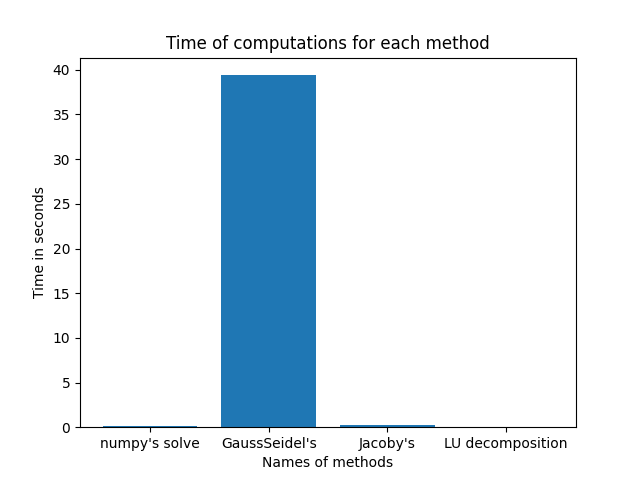
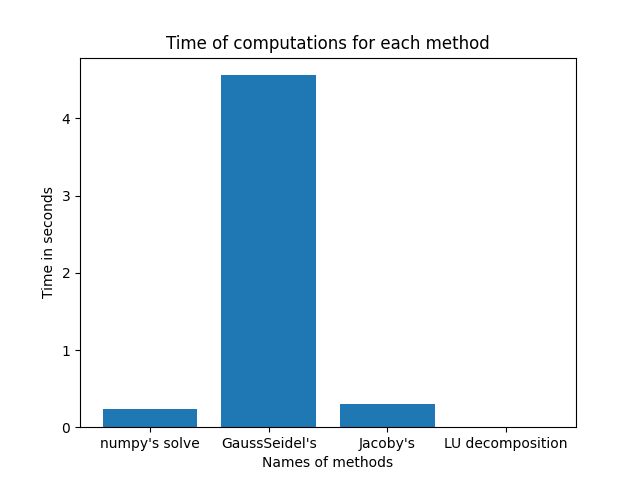
fixed Gauss-Seidel method

diff --git a/gaussseidel.py b/gaussseidel.py
@@ -12,8 +12,8 @@ class GaussSeidel(IterativeMethod):
         self.expression2 = np.linalg.solve(self.expression1, self.b_vec)
 
     def compute_iteration(self):
-        self.result = -np.linalg.solve(self.expression1,
-                            (self.U @ self.result)) + self.expression2
+        for i in range(self.matrix.shape[0]):
+            self.result[i] = (self.b_vec[i] - (self.matrix[i, :i] @ self.result[:i]) - (self.matrix[i, (i+1):] @ self.result[i+1:])) / self.matrix[i, i]
 
     def compute_result(self):
         super().compute_result(self)

diff --git a/main.py b/main.py
@@ -24,7 +24,7 @@ def solve_matrix(data, iteration):
     gauss_seidel = GaussSeidel(*data)
     gauss_seidel.compute_result()
     gauss_seidel.generate_plot()
-    gauss_seidel.print_result()
+    gauss_seidel.print_result(show_matrix=True)
 
     jacoby = Jacoby(*data)
     jacoby.compute_result()
